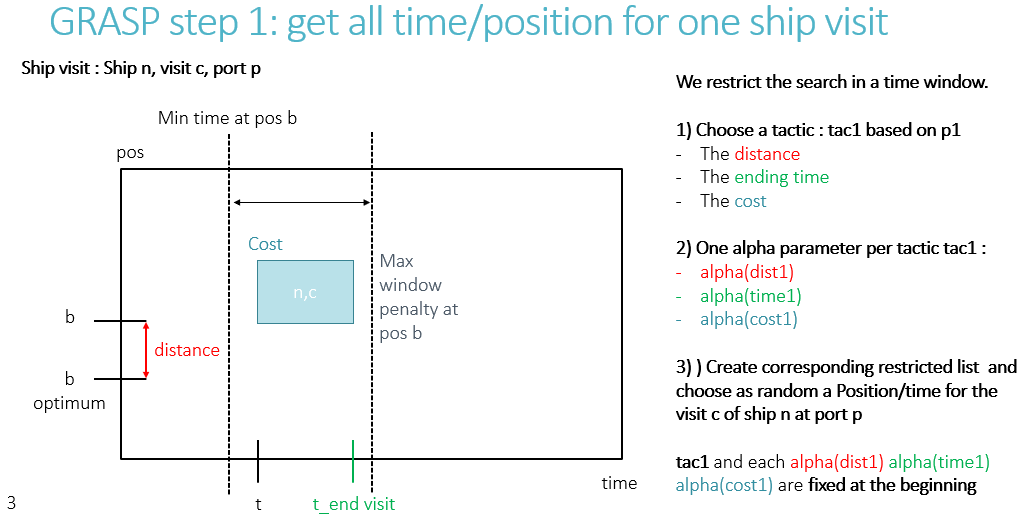
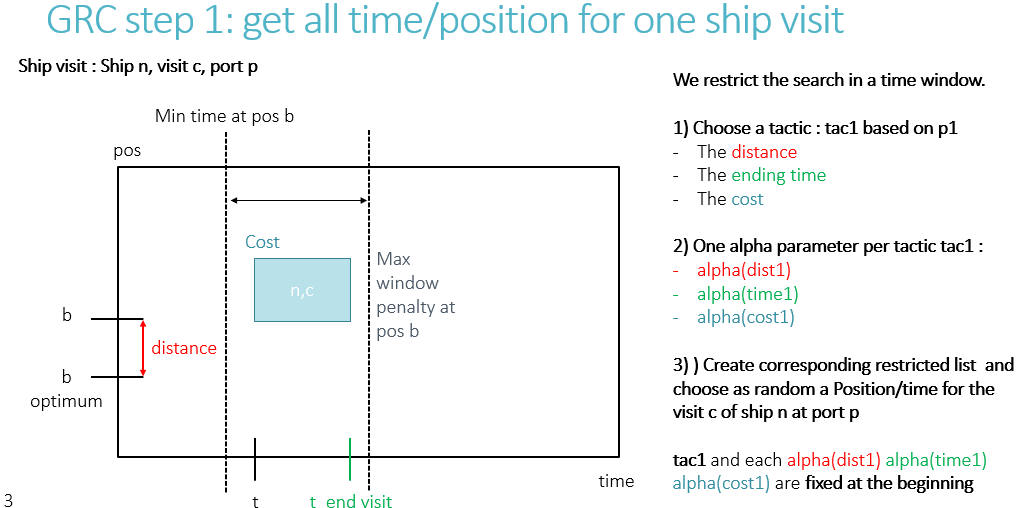
screenshots

diff --git a/my_code/README.md b/my_code/README.md
@@ -8,15 +8,31 @@ J'ai ici l'entièreté du code que j'ai utilisé pour ma master thesis. Il y a b
 
 ## Structure principale :
 
+### Sur le papier :
+
 ![Screenshot](screenshots/main_structure.png)
 
 Il y a trois étapes principales :
 
-- GRASP algorithm : il y a deux étapes principales. Pour chaque visite (c'est à dire la visite d'un bateau à un port donné dans une fenêtre de temps fixe) on choisit un temps et une position d'arrivée (en vérifiant la faisabilité). Parmis toutes ces visites on en choisit une et la fixe.
+- greedy randomized algorithm : il y a deux étapes principales. Pour chaque visite (c'est à dire la visite d'un bateau à un port donné dans une fenêtre de temps fixe) on choisit un temps et une position d'arrivée (en vérifiant la faisabilité). Parmis toutes ces visites on en choisit une et la fixe.
 
 - Local search : j'ai implémenté une pseudo LNS méthode en détruisant puis reconstruisant une partie de la solution. Il est important de noter que les visites déplacées se trouvent 'à coté', autour d'une même visite. La reconstruction se fait d' manière particulière en choisissant les meilleurs positions/temps par coût et en essayant de rapprocher au maximum les visites.
 
 - Path Relinking : pour le path relinking la méthode employée est similaire à la local search. Néanmoins ici la reconstruction se fait en utilisant le GRASP algorithm (ainsi que ses paramètres).
+
+### La structure du code :
+
+Ici une petite explication des différents scripts :
+
+- **MBAP_INST.jl** : définition et structure des instances
+
+- **Heur/check_solution.jl** :  fonctions pour vérifier le coût et la faisabilité des solutions
+- **Heur/get_iterations.jl** :  fonctions pour extraire les informations des solutions pour analyse
+- **Heur/MBAP_SOL.jl** :  définitions et structures des instances solutions et visites
+- **Heur/toolsMatrixTimes.jl** :  tool box pour update les matrixes 2D représentant les ports
+- **Heur/utilInit** :  structures et fonctions qui permettent de définir l'ensemble des paramètres et les modifier
+
+- **Heur/GRASPlocalpathfinal/GRASP.jl** : fonctions qui imp
 
 ## GRASP algorithm
 
